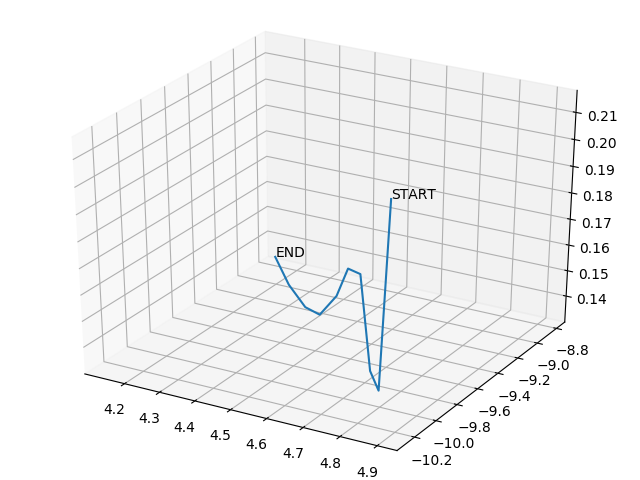
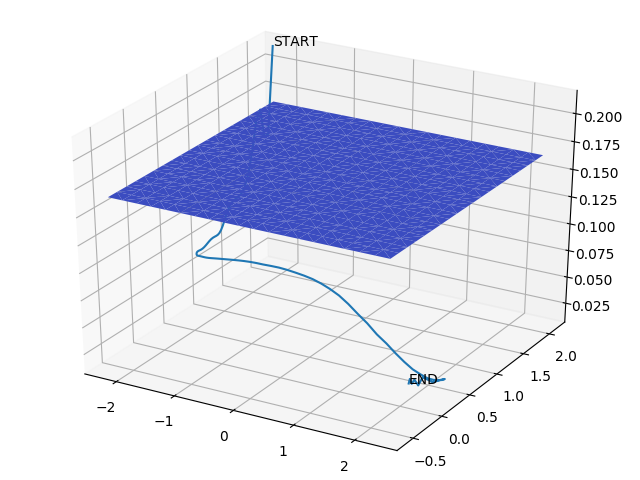
modify bonus but still something wrong

diff --git a/hw1/hw1_2/simulate_function/plot_error_surface.py b/hw1/hw1_2/simulate_function/plot_error_surface.py
@@ -7,8 +7,10 @@ import torch.optim as optim
 from torch.autograd import Variable
 import matplotlib.pyplot as plt
 from sklearn.manifold import TSNE
+from sklearn.decomposition import PCA
 from mpl_toolkits.mplot3d import Axes3D
 from matplotlib import cm
+from collections import OrderedDict
 
 PI = math.pi
 device = torch.device("cpu")
@@ -65,6 +67,18 @@ def sample_weight(parameters):
             for i in range(sz[0]):
                 p[i].data *= 1 + 0.000001 * (np.random.rand() - 0.5)
 
+def generate_state_dict(vector, model):
+    return_orderdict = OrderedDict()
+    dummy_state_dict = model.state_dict()
+    cum_idx = 0
+    for key, value in dummy_state_dict.items():
+        sz = np.array(value.size())
+        length = np.prod(sz)
+        weight = vector[cum_idx:cum_idx + length].reshape(sz)
+        return_orderdict[key] = torch.FloatTensor(weight)
+        cum_idx = cum_idx + length
+    return return_orderdict
+
 def main():
     ##########################
     ## sin(3*pi*x)/(3*pi*x) ##
@@ -95,13 +109,49 @@ def main():
     
     loss_all = training_loss
     all_point = training_point
-    _x, _y = _tsne(np.array(all_point))
+    #_x, _y = _tsne(np.array(all_point))
+    pca = PCA(n_components=2)
+    pca = pca.fit(np.array(training_point))
+    low_dim = pca.transform(training_point)
+    _x, _y= low_dim[:, 0],  low_dim[:, 1]
+    x_min, x_max, y_min, y_max = np.amin(_x), np.amax(_x), np.amin(_y), np.amax(_y)
+    #print(x_min, x_max, y_min, y_max)
 
+    sample_num = 20
+    sample_x = np.linspace(x_min, x_max, num=sample_num)
+    sample_y = np.linspace(y_min, y_max, num=sample_num)
+    _sample_x = []
+    _sample_y = []
+
+    for i in range(sample_num):
+        for j in range(sample_num):
+            tmp_vector = np.append(sample_x[i],sample_y[j])
+            sample_point.append(pca.inverse_transform(tmp_vector))
+            _sample_x.append(sample_x[i])
+            _sample_y.append(sample_y[j])
+            #print(sample_point[-1])
+
+    for sample_index in range(len(sample_point)):
+        vector_state_dict = generate_state_dict(sample_point[i], model)
+        model.load_state_dict(vector_state_dict)
+
+        prediction = model(train_x)
+        loss = loss_func(prediction, train_y)
+        sample_loss.append(loss.data.cpu().numpy())
+
+    _v = np.append(_x[0],_y[0])
+    t_point = pca.inverse_transform(_v)
+    print(t_point)
+    print(training_point[0])
+
+
+    
     fig = plt.figure()
     ax = Axes3D(fig)
     ax.text(_x[0], _y[0], loss_all[0], 'START', color='black', fontsize=10)
-    ax.text(_x[9], _y[9], loss_all[9], 'END', color='black', fontsize=10)
-    ax.plot(_x[0:10], _y[0:10], loss_all[0:10], zdir='z', label='ys=0, zdir=z')
+    ax.text(_x[99], _y[99], loss_all[99], 'END', color='black', fontsize=10)
+    ax.plot(_x[0:100], _y[0:100], loss_all[0:100], zdir='z', label='ys=0, zdir=z')
+    ax.plot_trisurf(_sample_x, _sample_y, sample_loss, linewidth=0.2, antialiased=True, alpha=1.0, cmap='coolwarm')
     plt.savefig('training_point_3D.png')
     
 
